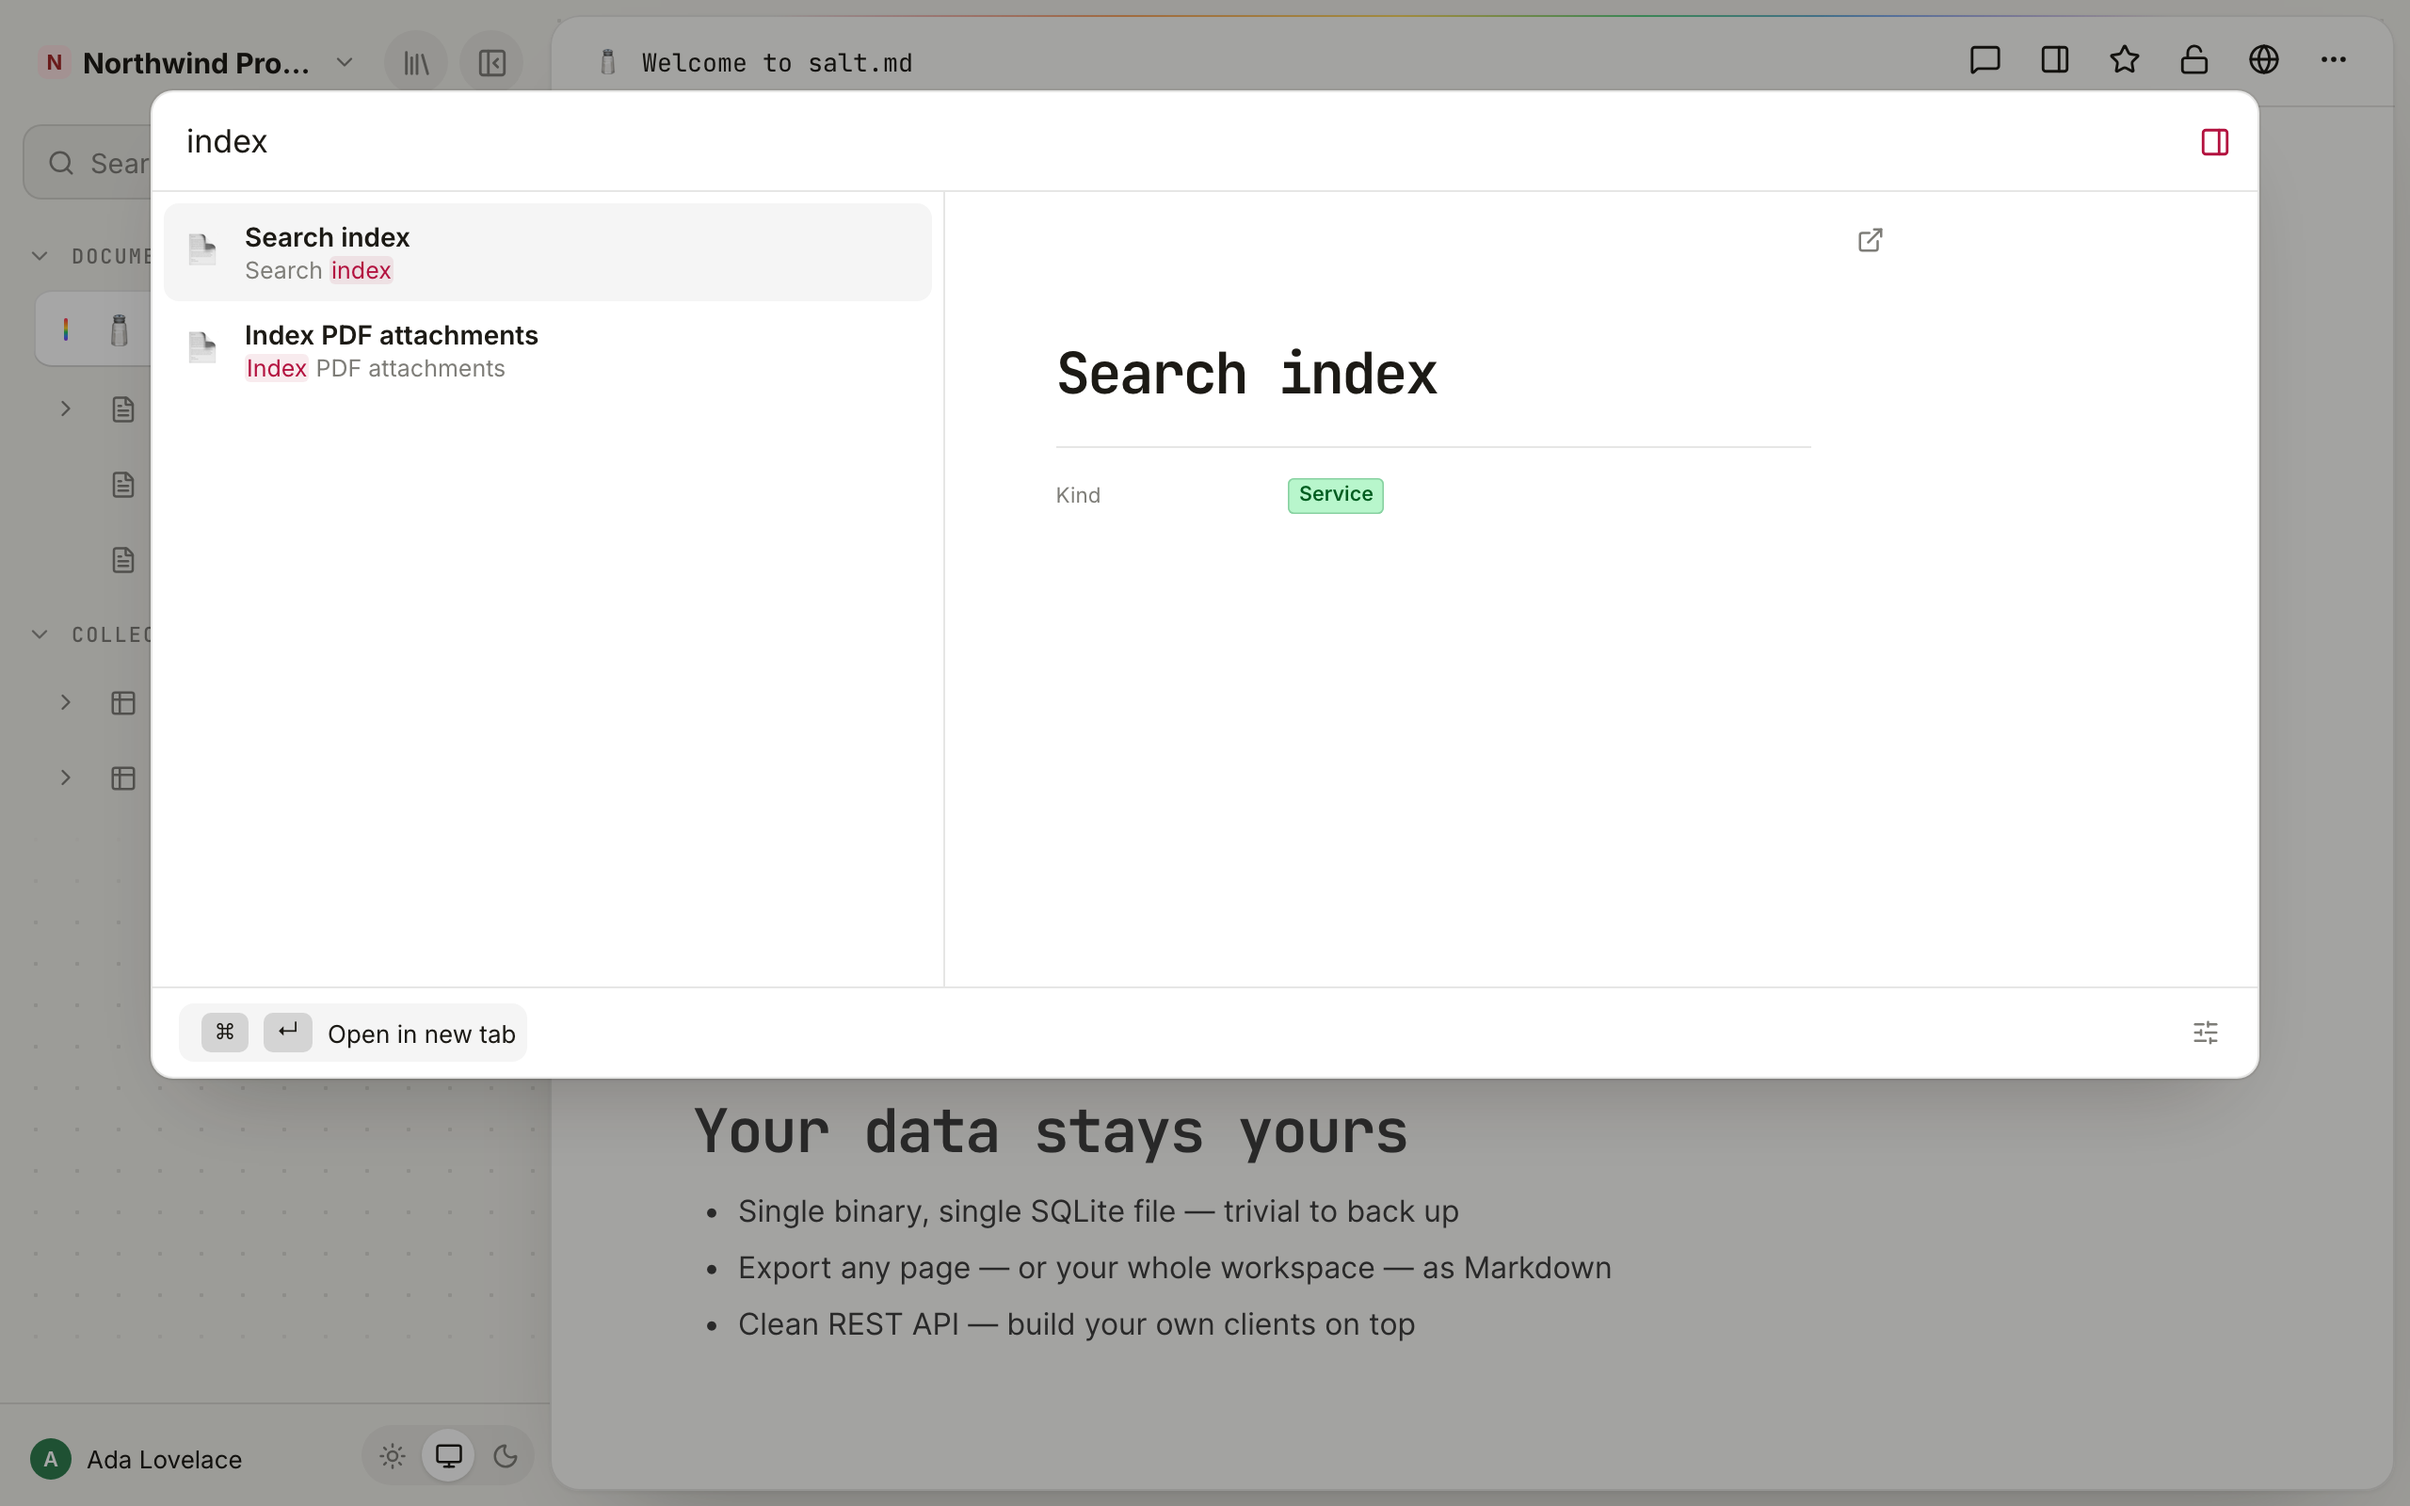
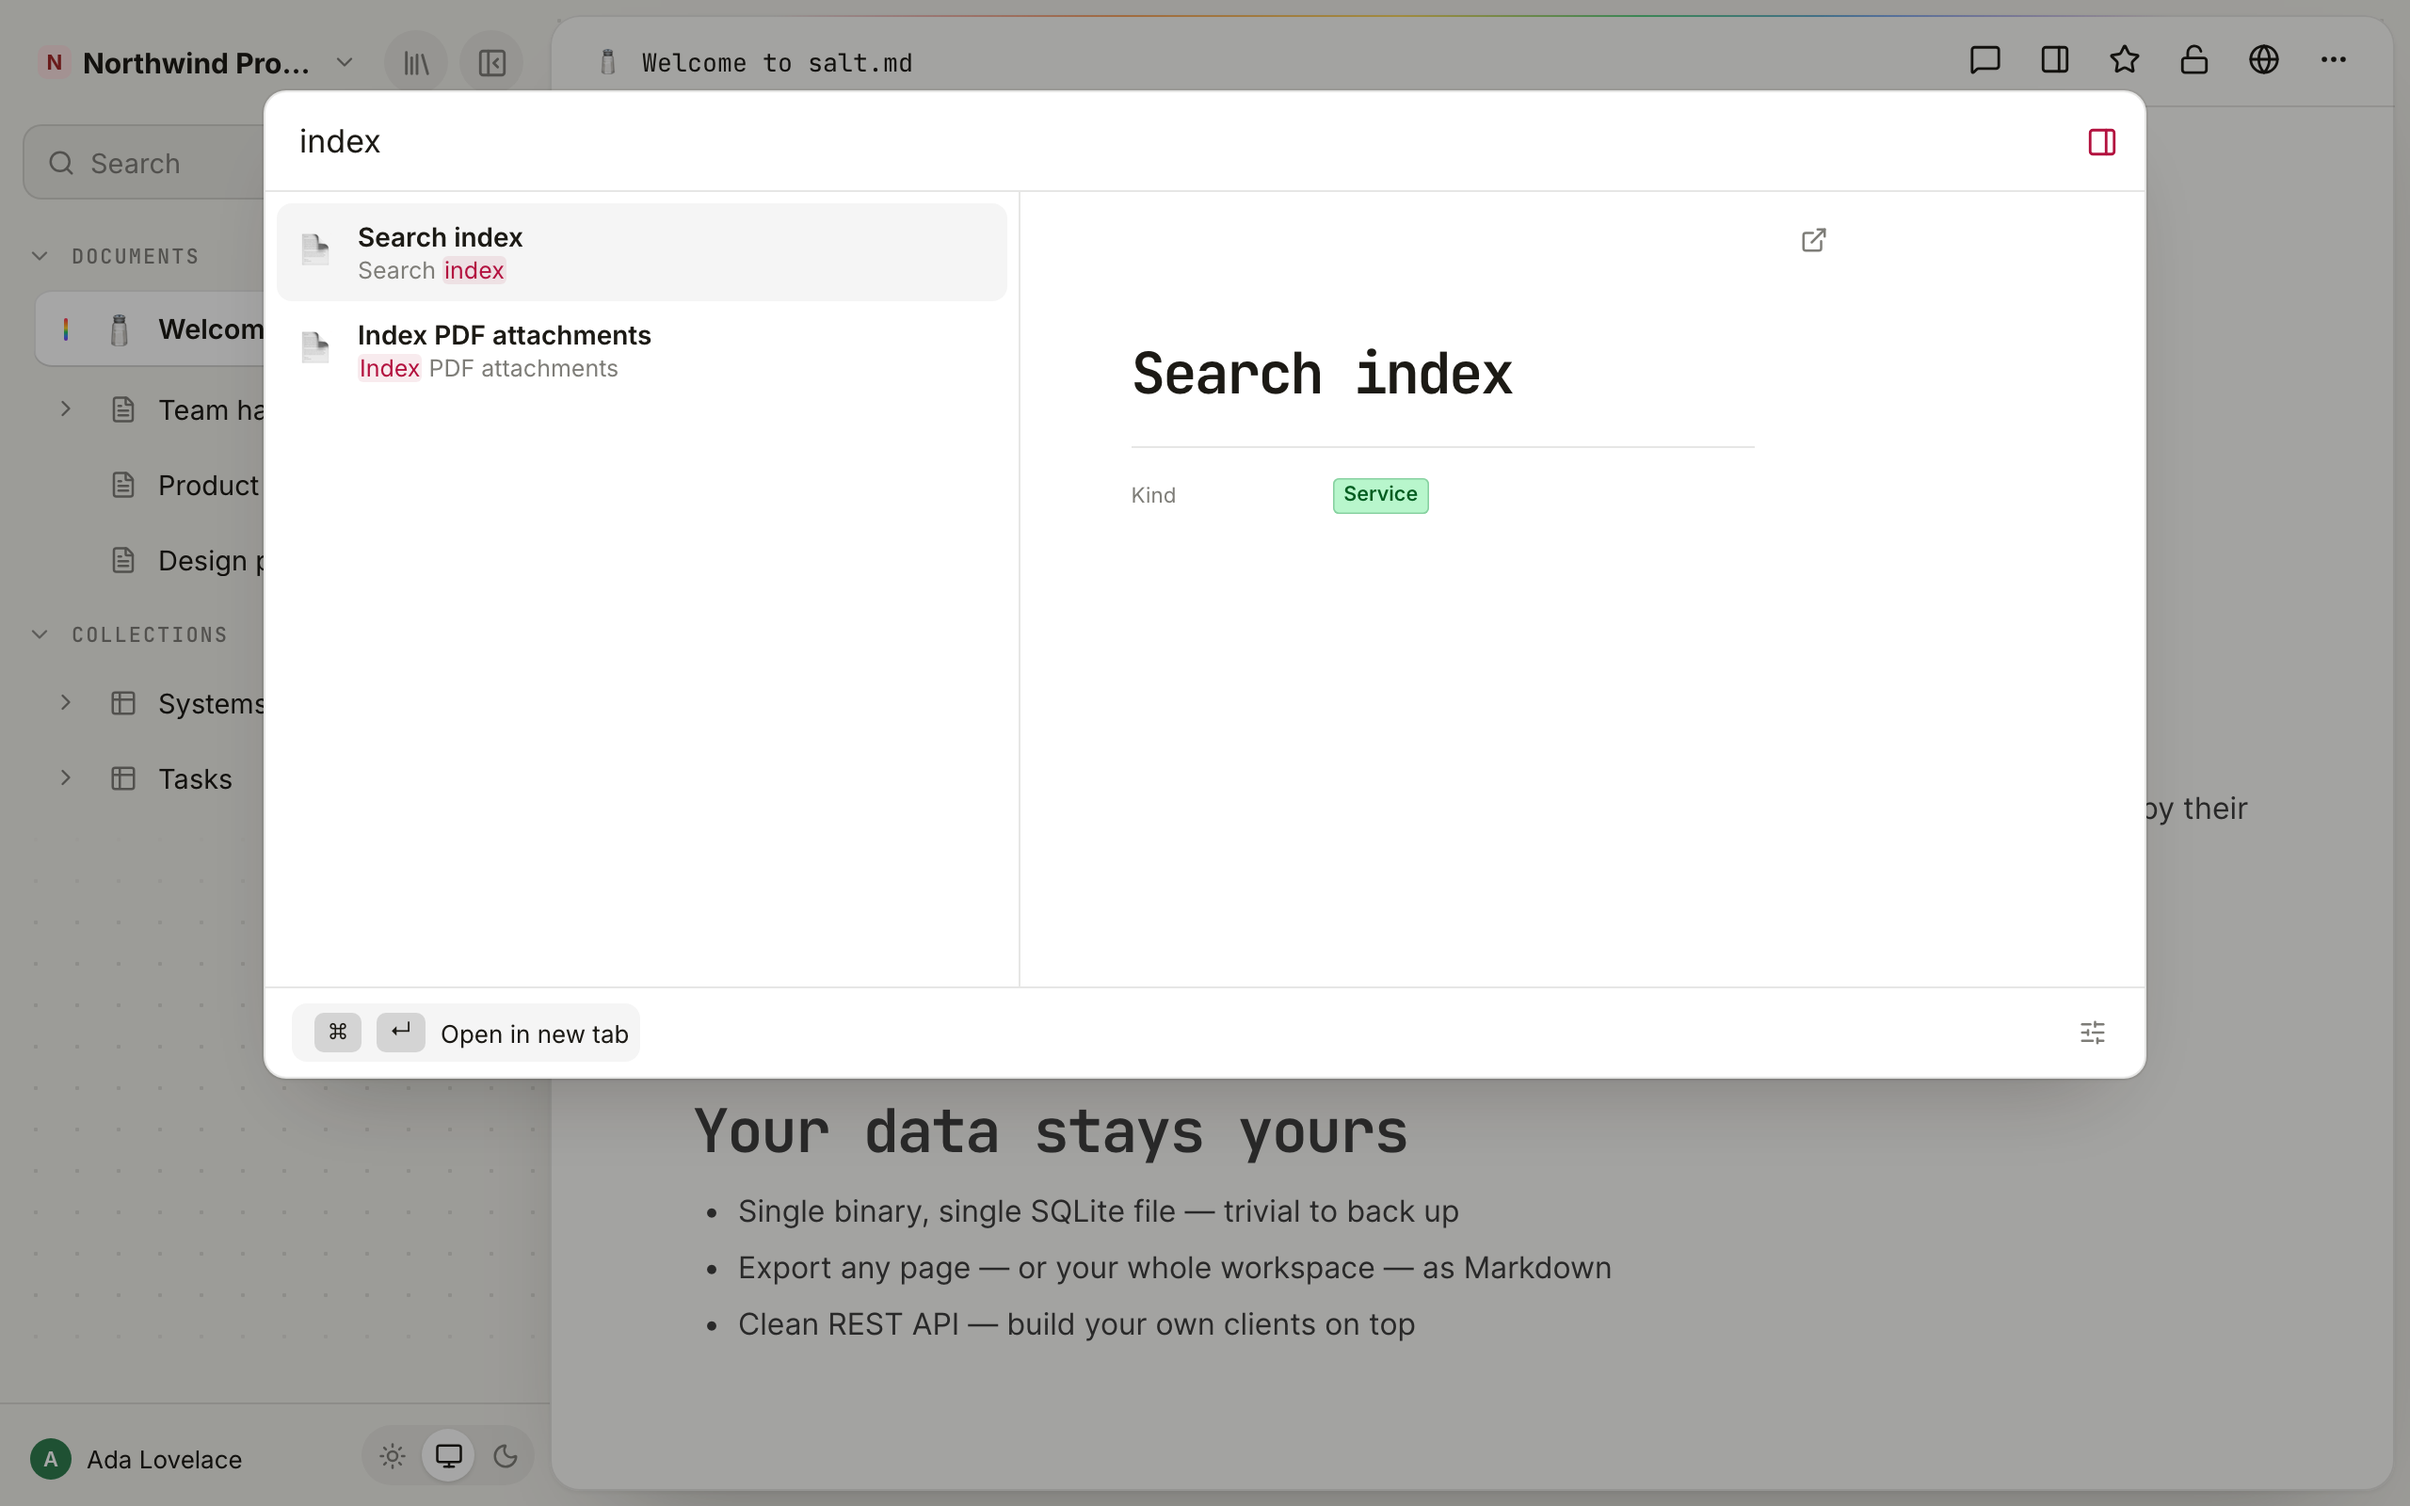
Search modal widths: preview 450px, results 400px

diff --git a/web/src/styles.css b/web/src/styles.css
@@ -1683,7 +1683,7 @@ body:has(.icon-picker) .bn-side-menu {
 }
 
 .search-modal.has-preview {
-  width: min(1120px, 96vw);
+  width: min(1000px, 96vw);
 }
 
 .search-body {
@@ -1915,12 +1915,12 @@ body:has(.icon-picker) .bn-side-menu {
    exactly like the page — a click on plain content opens it (see openPreview),
    while the editor's own controls and links answer for themselves. */
 .search-main {
-  flex: 0 1 420px;
+  flex: 0 1 400px;
   min-width: 0;
 }
 
 .search-preview {
-  width: 520px;
+  width: 450px;
   flex-shrink: 0;
   border-left: 1px solid var(--border);
   padding: 12px 14px 18px;
